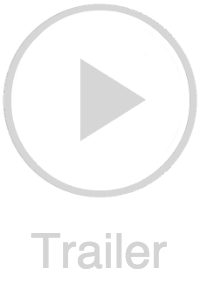
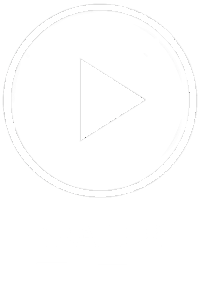
add trailer

diff --git a/css/main.css b/css/main.css
@@ -9,28 +9,48 @@ body {
     height: 100%;
     margin: 0px;
     padding: 0px;
-    position:relative;
     font-family: "Times New Roman", Times, serif;
 }
 
 .lang {
     position: absolute;
-    top: 1vw;
-    right: 4%;
+    top: 2vh;
+    right: 3%;
     margin-left: -6vw;
-    font-family: Helvetica;
+    z-index: 2;
+}
+
+.lang a {
+    text-decoration: none;
     color: rgb(179, 179, 179);
+    font-family: Helvetica;
+    font-size: 14px;
+    font-weight: 200;
+    color: #fff;
+    opacity: 0.5;
+}
+
+.lang span {
+    color: #fff;
+    opacity: 0.5;
+    font-family: Helvetica;
     font-size: 14px;
     font-weight: 200;
 }
 
+.lang a:hover {
+    cursor: pointer;
+    opacity: 1.0;
+    filter: alpha(opacity=100); /* For IE8 and earlier */
+}
+
 .intro {
-    position: absolute;
+    position: relative;
     text-align: center;
     left: 4%;
-    margin: 0;
+    margin: 0 0 50px 0;
     top: 10%;
-    width: 400px;
+    width: 31vw;
 }
 
 #headline {
@@ -38,8 +58,10 @@ body {
     font-family: 'Futura W01 Book',sans-serif;
     letter-spacing: .3em;
     font-weight: 400;
-    padding: 60px 0 60px;
+    padding: 11vh 0 11vh 0;
     color: #fff;
+    text-align: center;
+    margin-top: 0px;
 }
 
 .intro p {
@@ -47,13 +69,14 @@ body {
     color: #fff;
     font-size: 15px;
     line-height: 1.5;
-    margin: 0;
+    margin: 0 9px 0 0;
     padding: 0 5%;
     text-align: justify;
     font-family: Helvetica;
     font-style: normal;
     font-variant: normal;
     font-weight: 300;
+    letter-spacing: 1px;
 }
 
 @font-face {
@@ -70,13 +93,14 @@ body {
     background-size: contain;
     width: 20vh;
     height: 20vh;
-   /* max-width: 97px;
-    max-height: 92px;*/
+    max-width: 150px;
+    max-height: 150px;
     position: absolute;
     left: 50%;
     top: 43%;
-    opacity: 0.3;
+    opacity: 0.5;
     filter: alpha(opacity=40);
+    z-index: 2;
 }
 
 .play:hover {
@@ -85,21 +109,60 @@ body {
     cursor: pointer;
 }
 
-.footer p {
+p.footer {
     position: absolute;
-    bottom: 1vw;
+    bottom: 0;
     font-family: Helvetica;
     color: rgb(179, 179, 179);
-    font-size: 14px;
+    font-size: 13px;
     font-weight: 200;
-    margin: 0 20px;
+    float: left;
+    clear: left;
+    text-align: center;
+    width: 100vw;
+    height: 2.5vw;
+    margin-bottom: 0;
+    z-index: 2;
 }
 
-/*.video iframe {
-    position: absolute;
+p.footer a {
+    margin: 0 100px;
+    text-decoration: none;
+    letter-spacing: 3px;
+    border-bottom: solid 1px #fff;
+    background-color: rgba(255,255,255,0);
+    border-color: rgba(255,255,255,.4);
+    color: #fff;
+    height: 18px;
+    padding: 0;
+    outline: 0;
+    display: inline-block;
+    opacity: 0.5;
+}
+
+p.footer a:hover {
+    cursor: pointer;
+    opacity: 1.0;
+    filter: alpha(opacity=100); /* For IE8 and earlier */
+}
+
+p.footer a:visited {
+    color: rgb(179, 179, 179);
+    text-decoration: none;
+}
+
+.none iframe {
+    display: none;
+}
+
+.video {
     width: 100%;
     height: 100%;
-}*/
+    z-index: 1;
+    position: absolute;
+    top: 0;
+    left: 0;
+}
 
 .clearfix:before,
 .clearfix:after {

diff --git a/index.html b/index.html
@@ -14,7 +14,13 @@
     </head>
     <body>
         <div class="lang">
-            <p>En | Ua | De | Es | Ru</p>
+            <p>
+                <a href="#">Ua</a><span> | </span>
+                <a href="#">En</a><span> | </span>
+                <a href="#">De</a><span> | </span>
+                <a href="#">Es</a><span> | </span>
+                <a href="#">Ru</a>
+            </p>
         </div>
         <div class="intro">
           <h1 id="headline">THE UKRAINIANS</h1>
@@ -22,13 +28,14 @@
           </p>
         </div>
         <div class="play"></div>
-        <!-- <iframe width="560" height="315" src="https://www.youtube.com/embed/Fftqr09RQ1w" frameborder="0" allowfullscreen></iframe>
- -->
-        <!-- <div class="footer">
-            <p>About movie</p>
-            <p>Donate</p>
-            <p>Contacts</p>
-        </div> -->
+        <div class="video none"> 
+            <iframe width="560" height="315" src="https://www.youtube.com/embed/Fftqr09RQ1w" frameborder="0" allowfullscreen></iframe>
+        </div>
+            <p class="footer">
+                <a href="#">ABOUT MOVIE</a>
+                <a href="#">DONATE</a>
+                <a href="#">CONTACTS</a>
+            </p>
 
         <script src="https://code.jquery.com/jquery-1.12.0.min.js"></script>
         <script>window.jQuery || document.write('<script src="js/vendor/jquery-1.12.0.min.js"><\/script>')</script>

diff --git a/js/main.js b/js/main.js
@@ -1,5 +1,13 @@
-$('#play').click(function(){
-$('video')[0].play();
+$(document).ready(function($) {
+	var $window = $(window)
+	var $play = $('.play')
+	console.warn("HUY", $play.length)
+	var $video = $('.video')
+    var player = {}
+
+$play.on('click', function () {
+  $('.video').removeClass("none");
+  $('iframe').playVideo();
 })
 
 function retinaSrc(src) {
@@ -8,3 +16,12 @@ function retinaSrc(src) {
     }
     return src
   }
+
+$window.resize(function() {
+    if (!player.h) return
+    player.h.h.width = $window.width()
+    player.h.h.height = $window.height()
+})
+
+
+})
